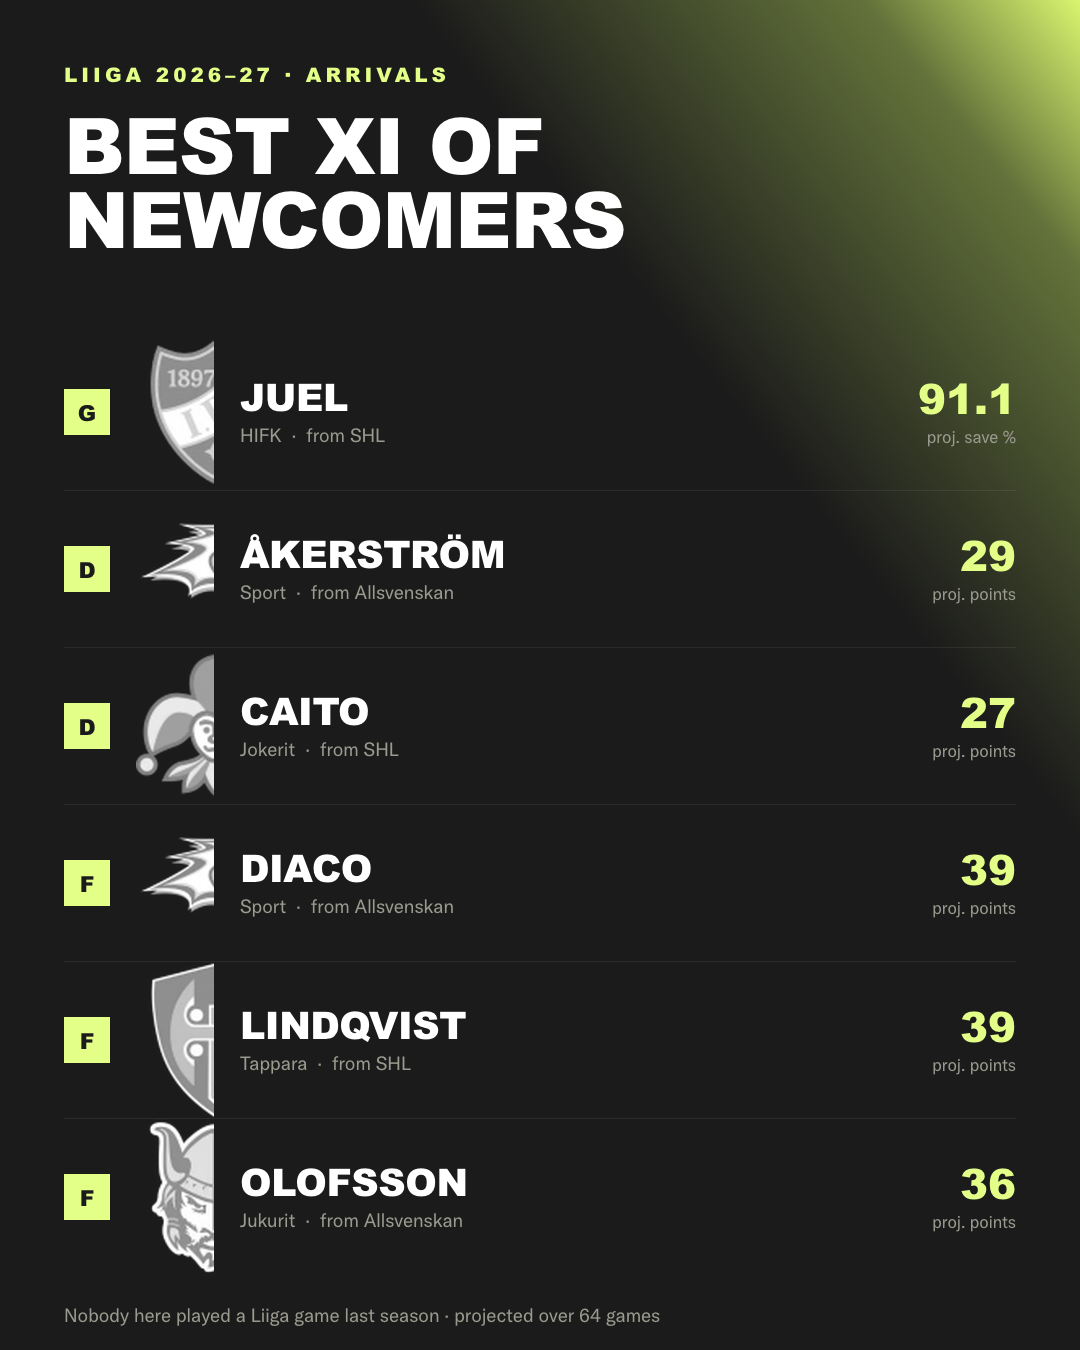
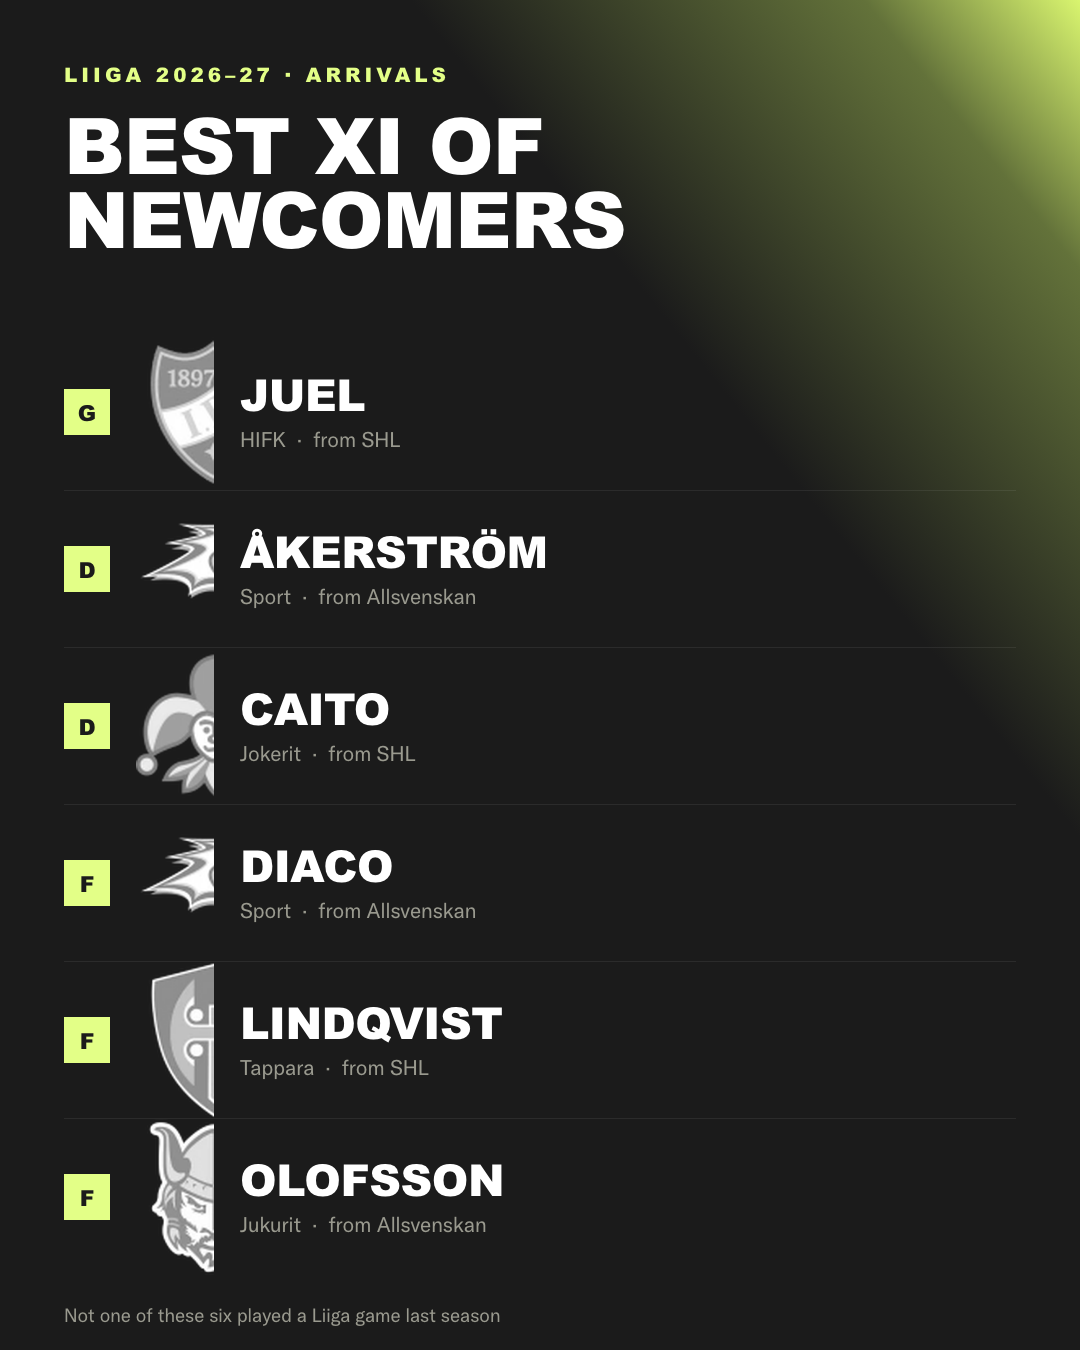
Newcomers slide: drop the projected numbers
Removes the right-hand figure from every row on slide 6. The projections are
still what ranks the six picks -- they are just no longer printed.

Also dropped the goalie's projected save %, not only the skaters' points: one
lone number in an otherwise number-free column read as an inconsistency rather
than a highlight. Easy to restore if the save % was wanted.

Names and the "from <league>" line are enlarged to fill the reclaimed space,
and the footer no longer references a projection window.

diff --git a/site_instagram/slide_6.html b/site_instagram/slide_6.html
@@ -63,9 +63,9 @@
          font-family:"GT America Expanded","Arial Black",Arial,sans-serif; font-size:22px; display:flex; align-items:center;
          justify-content:center; flex-shrink:0; }
   .nc-txt { flex:1; }
-  .nc-name { font-family:"GT America Expanded","Arial Black",Arial,sans-serif; font-size:38px; text-transform:uppercase;
+  .nc-name { font-family:"GT America Expanded","Arial Black",Arial,sans-serif; font-size:44px; text-transform:uppercase;
              letter-spacing:-0.5px; line-height:1; }
-  .nc-from { font-size:19px; color:#9a9a8f; margin-top:8px; }
+  .nc-from { font-size:21px; color:#9a9a8f; margin-top:10px; }
   .nc-num { font-family:"GT America Expanded","Arial Black",Arial,sans-serif; font-size:42px; color:#e3ff87;
             text-align:right; line-height:1; }
   .nc-unit { font-size:17px; color:#9a9a8f; text-align:right; margin-top:7px; }
@@ -105,10 +105,6 @@
           <div class="nc-name">Juel</div>
           <div class="nc-from">HIFK &nbsp;·&nbsp; from SHL</div>
         </div>
-        <div>
-          <div class="nc-num">91.1</div>
-          <div class="nc-unit">proj. save %</div>
-        </div>
       </div>
       <div class="row">
         <div class="pos">D</div>
@@ -116,10 +112,6 @@
         <div class="nc-txt">
           <div class="nc-name">Åkerström</div>
           <div class="nc-from">Sport &nbsp;·&nbsp; from Allsvenskan</div>
-        </div>
-        <div>
-          <div class="nc-num">29</div>
-          <div class="nc-unit">proj. points</div>
         </div>
       </div>
       <div class="row">
@@ -129,10 +121,6 @@
           <div class="nc-name">Caito</div>
           <div class="nc-from">Jokerit &nbsp;·&nbsp; from SHL</div>
         </div>
-        <div>
-          <div class="nc-num">27</div>
-          <div class="nc-unit">proj. points</div>
-        </div>
       </div>
       <div class="row">
         <div class="pos">F</div>
@@ -140,10 +128,6 @@
         <div class="nc-txt">
           <div class="nc-name">Diaco</div>
           <div class="nc-from">Sport &nbsp;·&nbsp; from Allsvenskan</div>
-        </div>
-        <div>
-          <div class="nc-num">39</div>
-          <div class="nc-unit">proj. points</div>
         </div>
       </div>
       <div class="row">
@@ -153,10 +137,6 @@
           <div class="nc-name">Lindqvist</div>
           <div class="nc-from">Tappara &nbsp;·&nbsp; from SHL</div>
         </div>
-        <div>
-          <div class="nc-num">39</div>
-          <div class="nc-unit">proj. points</div>
-        </div>
       </div>
       <div class="row">
         <div class="pos">F</div>
@@ -165,10 +145,6 @@
           <div class="nc-name">Olofsson</div>
           <div class="nc-from">Jukurit &nbsp;·&nbsp; from Allsvenskan</div>
         </div>
-        <div>
-          <div class="nc-num">36</div>
-          <div class="nc-unit">proj. points</div>
-        </div>
       </div></div>
-    <div class="foot">Nobody here played a Liiga game last season · projected over 64 games</div>
+    <div class="foot">Not one of these six played a Liiga game last season</div>
   </div></body></html>

diff --git a/site_instagram/slide_1.html b/site_instagram/slide_1.html
@@ -63,9 +63,9 @@
          font-family:"GT America Expanded","Arial Black",Arial,sans-serif; font-size:22px; display:flex; align-items:center;
          justify-content:center; flex-shrink:0; }
   .nc-txt { flex:1; }
-  .nc-name { font-family:"GT America Expanded","Arial Black",Arial,sans-serif; font-size:38px; text-transform:uppercase;
+  .nc-name { font-family:"GT America Expanded","Arial Black",Arial,sans-serif; font-size:44px; text-transform:uppercase;
              letter-spacing:-0.5px; line-height:1; }
-  .nc-from { font-size:19px; color:#9a9a8f; margin-top:8px; }
+  .nc-from { font-size:21px; color:#9a9a8f; margin-top:10px; }
   .nc-num { font-family:"GT America Expanded","Arial Black",Arial,sans-serif; font-size:42px; color:#e3ff87;
             text-align:right; line-height:1; }
   .nc-unit { font-size:17px; color:#9a9a8f; text-align:right; margin-top:7px; }

diff --git a/site_instagram/slide_2.html b/site_instagram/slide_2.html
@@ -63,9 +63,9 @@
          font-family:"GT America Expanded","Arial Black",Arial,sans-serif; font-size:22px; display:flex; align-items:center;
          justify-content:center; flex-shrink:0; }
   .nc-txt { flex:1; }
-  .nc-name { font-family:"GT America Expanded","Arial Black",Arial,sans-serif; font-size:38px; text-transform:uppercase;
+  .nc-name { font-family:"GT America Expanded","Arial Black",Arial,sans-serif; font-size:44px; text-transform:uppercase;
              letter-spacing:-0.5px; line-height:1; }
-  .nc-from { font-size:19px; color:#9a9a8f; margin-top:8px; }
+  .nc-from { font-size:21px; color:#9a9a8f; margin-top:10px; }
   .nc-num { font-family:"GT America Expanded","Arial Black",Arial,sans-serif; font-size:42px; color:#e3ff87;
             text-align:right; line-height:1; }
   .nc-unit { font-size:17px; color:#9a9a8f; text-align:right; margin-top:7px; }

diff --git a/site_instagram/slide_3.html b/site_instagram/slide_3.html
@@ -63,9 +63,9 @@
          font-family:"GT America Expanded","Arial Black",Arial,sans-serif; font-size:22px; display:flex; align-items:center;
          justify-content:center; flex-shrink:0; }
   .nc-txt { flex:1; }
-  .nc-name { font-family:"GT America Expanded","Arial Black",Arial,sans-serif; font-size:38px; text-transform:uppercase;
+  .nc-name { font-family:"GT America Expanded","Arial Black",Arial,sans-serif; font-size:44px; text-transform:uppercase;
              letter-spacing:-0.5px; line-height:1; }
-  .nc-from { font-size:19px; color:#9a9a8f; margin-top:8px; }
+  .nc-from { font-size:21px; color:#9a9a8f; margin-top:10px; }
   .nc-num { font-family:"GT America Expanded","Arial Black",Arial,sans-serif; font-size:42px; color:#e3ff87;
             text-align:right; line-height:1; }
   .nc-unit { font-size:17px; color:#9a9a8f; text-align:right; margin-top:7px; }

diff --git a/site_instagram/slide_4.html b/site_instagram/slide_4.html
@@ -63,9 +63,9 @@
          font-family:"GT America Expanded","Arial Black",Arial,sans-serif; font-size:22px; display:flex; align-items:center;
          justify-content:center; flex-shrink:0; }
   .nc-txt { flex:1; }
-  .nc-name { font-family:"GT America Expanded","Arial Black",Arial,sans-serif; font-size:38px; text-transform:uppercase;
+  .nc-name { font-family:"GT America Expanded","Arial Black",Arial,sans-serif; font-size:44px; text-transform:uppercase;
              letter-spacing:-0.5px; line-height:1; }
-  .nc-from { font-size:19px; color:#9a9a8f; margin-top:8px; }
+  .nc-from { font-size:21px; color:#9a9a8f; margin-top:10px; }
   .nc-num { font-family:"GT America Expanded","Arial Black",Arial,sans-serif; font-size:42px; color:#e3ff87;
             text-align:right; line-height:1; }
   .nc-unit { font-size:17px; color:#9a9a8f; text-align:right; margin-top:7px; }

diff --git a/site_instagram/slide_5.html b/site_instagram/slide_5.html
@@ -63,9 +63,9 @@
          font-family:"GT America Expanded","Arial Black",Arial,sans-serif; font-size:22px; display:flex; align-items:center;
          justify-content:center; flex-shrink:0; }
   .nc-txt { flex:1; }
-  .nc-name { font-family:"GT America Expanded","Arial Black",Arial,sans-serif; font-size:38px; text-transform:uppercase;
+  .nc-name { font-family:"GT America Expanded","Arial Black",Arial,sans-serif; font-size:44px; text-transform:uppercase;
              letter-spacing:-0.5px; line-height:1; }
-  .nc-from { font-size:19px; color:#9a9a8f; margin-top:8px; }
+  .nc-from { font-size:21px; color:#9a9a8f; margin-top:10px; }
   .nc-num { font-family:"GT America Expanded","Arial Black",Arial,sans-serif; font-size:42px; color:#e3ff87;
             text-align:right; line-height:1; }
   .nc-unit { font-size:17px; color:#9a9a8f; text-align:right; margin-top:7px; }

diff --git a/scripts/build_instagram.py b/scripts/build_instagram.py
@@ -194,9 +194,9 @@ def css(t: dict) -> str:
          font-family:{HEAD_F}; font-size:22px; display:flex; align-items:center;
          justify-content:center; flex-shrink:0; }}
   .nc-txt {{ flex:1; }}
-  .nc-name {{ font-family:{HEAD_F}; font-size:38px; text-transform:uppercase;
+  .nc-name {{ font-family:{HEAD_F}; font-size:44px; text-transform:uppercase;
              letter-spacing:-0.5px; line-height:1; }}
-  .nc-from {{ font-size:19px; color:{t['muted']}; margin-top:8px; }}
+  .nc-from {{ font-size:21px; color:{t['muted']}; margin-top:10px; }}
   .nc-num {{ font-family:{HEAD_F}; font-size:42px; color:{t['accent']};
             text-align:right; line-height:1; }}
   .nc-unit {{ font-size:17px; color:{t['muted']}; text-align:right; margin-top:7px; }}
@@ -434,11 +434,7 @@ def newcomers_slide(t: dict, picks: list) -> str:
           <div class="nc-name">{name}</div>
           <div class="nc-from">{team} &nbsp;·&nbsp; from {frm}</div>
         </div>
-        <div>
-          <div class="nc-num">{num}</div>
-          <div class="nc-unit">{unit}</div>
-        </div>
-      </div>""" for pos, name, team, frm, num, unit in picks)
+      </div>""" for pos, name, team, frm, _num, _unit in picks)
     return page(t, f"""
   <div class="slide">
     <div class="head">
@@ -447,7 +443,7 @@ def newcomers_slide(t: dict, picks: list) -> str:
     </div>
     <div class="rule"></div>
     <div class="body newcomers">{rows}</div>
-    <div class="foot">Nobody here played a Liiga game last season · projected over {GAMES_PER_TEAM} games</div>
+    <div class="foot">Not one of these six played a Liiga game last season</div>
   </div>""")
 
 
